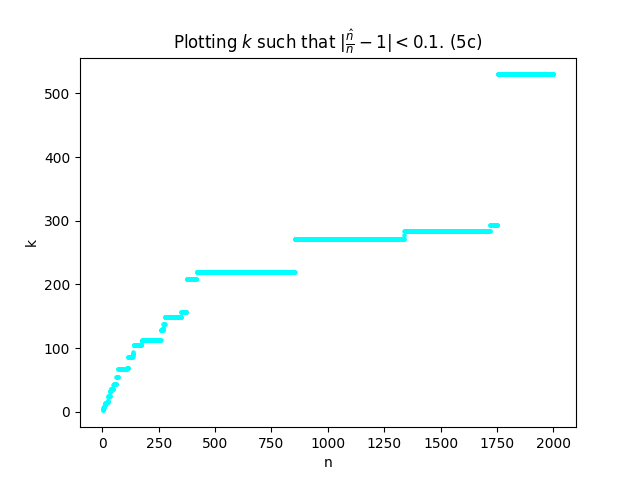
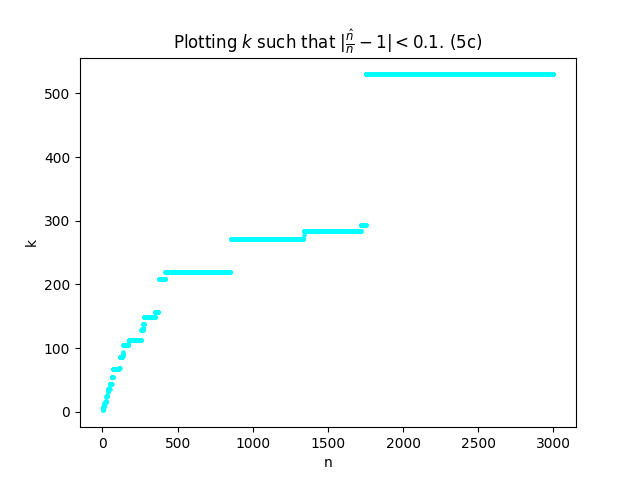
half of task 7

diff --git a/mincount.py b/mincount.py
@@ -5,6 +5,7 @@ import argparse
 import hashlib
 import random
 import numpy as np
+import math
 
 
 class AwfulHash:
@@ -40,6 +41,7 @@ class FloatHash:
     """
 
     def __init__(self, bit_length: int, function_name: str) -> None:
+        # optimal B = 2log2(n) (Birthday paradox)
         self.B = bit_length
         self.h = HASH_FUNS[function_name]
 
@@ -163,6 +165,22 @@ def graphTask6fun(x_axis: list, y_axis: list, save: bool = False) -> None:
     plt.show()
 
 
+def graphTask7(x_axis: list, y_axis: list, chebyshev: float, a: float,
+               save: bool = False) -> None:
+
+    plt.axhline(1 + chebyshev, linestyle='--',
+                label=f'{chebyshev=}', color='black')
+    plt.axhline(1 - chebyshev, linestyle='--', color='black')
+    plt.scatter(x=x_axis, y=y_axis, c='cyan', s=5)
+    plt.xlabel('n')
+    plt.ylabel(r'$\frac{\hat{n}}{n}$')
+    plt.title(r'Concentration results $\frac{\hat{n}}{n}$ for ' + f'{a=}. (7)')
+    plt.legend()
+    if save is True:
+        plt.savefig(f'figures/task7{a=}.png')
+    plt.show()
+
+
 def task5a() -> None:
     """
     Check whether multiplicity affects the results.
@@ -222,15 +240,14 @@ def task5c() -> None:
     Find k for which there is 95% chance that SE < 10%
     """
     k = 1
-    results = []
     h = FloatHash(256, "sha256")
-    N = (10 ** 3) * 2
+    N = (10 ** 3) * 3
     plot_x = [i for i in range(1, N+1)]
     plot_y = []
     start = 1
+    results = []
 
     for n in range(1, N+1):
-        print(n)
         end = start + n
         mset = generateMultiset(start, end, (1, 1))
         n_hat = minCount(k, h, mset)
@@ -284,20 +301,23 @@ def task6() -> None:
 
 def task7() -> None:
     k = 400
-    h = FloatHash(64, "sha256")
-    N = 10 ** 4
+    h = FloatHash(256, "sha256")
+    N = (10 ** 3) * 2
     start = 1
-    # plot_x = [i for i in range(1, N+1)]
-    plot_y = [[] for _ in range(4)]
+    plot_x = [i for i in range(1, N+1)]
+    plot_y = []
     alpha = [0.05, 0.01, 0.005]
-    for i, ai in enumerate(alpha):
-        print(f"alpha = {ai}")
-        for n in range(1, N+1):
-            end = start + n
-            mset = generateMultiset(start, end, (1, 1))
-            n_hat = minCount(k, h, mset)
-            plot_y[i].append(n_hat/n)
-            start = end
+
+    for n in range(1, N+1):
+        end = start + n
+        mset = generateMultiset(start, end, (1, 1))
+        n_hat = minCount(k, h, mset)
+        plot_y.append(n_hat/n)
+        start = end
+
+    for a in alpha:
+        chebyshev = math.sqrt(1 / (k * a))
+        graphTask7(plot_x, plot_y, chebyshev, a, True)
 
 
 if __name__ == "__main__":
